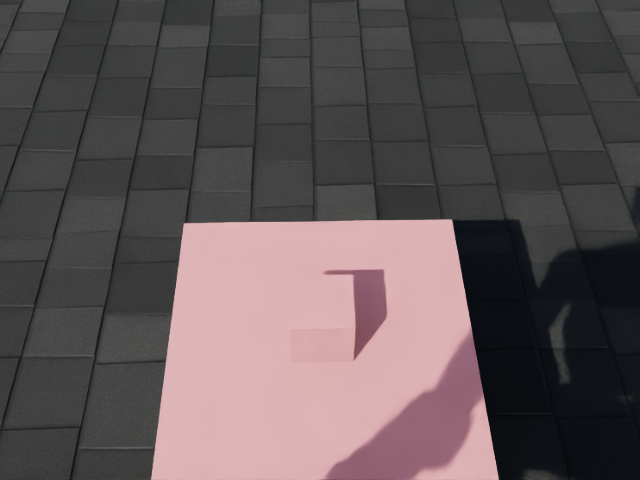
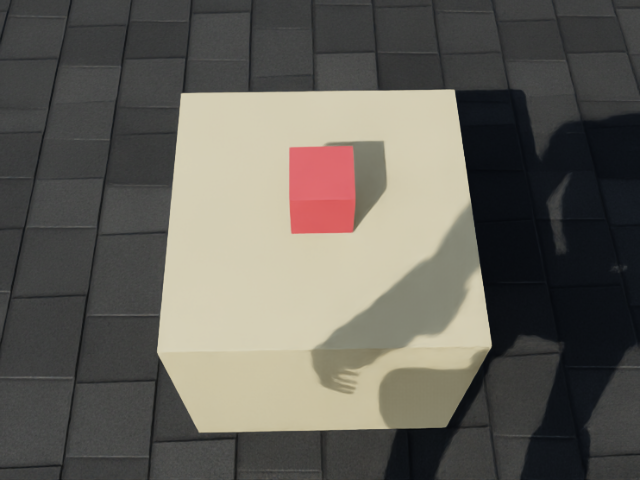
Added ability to specify cube and table color for manip_reach_obj

diff --git a/tasks/manip_reach_obj/create_scene.py b/tasks/manip_reach_obj/create_scene.py
@@ -1,4 +1,4 @@
-"""Create a reach_obj scene with a table and a cube on top.
+"""Create a manip_reach_obj scene: table with a cube on top.
 
 Usage:
     python tasks/manip_reach_obj/create_scene.py \
@@ -7,7 +7,6 @@ Usage:
 """
 
 import argparse
-import torch
 from protomotions.components.scene_lib import (
     BoxSceneObject,
     ObjectOptions,
@@ -21,17 +20,10 @@ def create_reach_scene(
     cube_size: float = 0.08,
     table_width: float = 0.4,
     table_depth: float = 0.4,
+    cube_color: tuple = (0.8, 0.1, 0.1),
+    table_color: tuple = (0.6, 0.5, 0.3),
     output: str = "outputs/manip_reach_obj_scene.pt",
 ) -> None:
-    """
-    Args:
-        cube_pos:    (x, y, z) cube center in world frame. x=forward, y=left, z=up.
-        cube_size:   Cube side length in meters.
-        table_width: Table surface width (X) in meters.
-        table_depth: Table surface depth (Y) in meters.
-        output:      Output .pt path.
-    """
-    # Table height so cube sits on top: table_top = cube_z - cube_size/2
     table_top = cube_pos[2] - cube_size / 2
     table_center_z = table_top / 2
 
@@ -41,7 +33,7 @@ def create_reach_scene(
         height=table_top,
         translation=(cube_pos[0], cube_pos[1], table_center_z),
         rotation=(0.0, 0.0, 0.0, 1.0),
-        options=ObjectOptions(fix_base_link=True),
+        options=ObjectOptions(fix_base_link=True, color=table_color),
     )
 
     cube = BoxSceneObject(
@@ -50,14 +42,19 @@ def create_reach_scene(
         height=cube_size,
         translation=tuple(cube_pos),
         rotation=(0.0, 0.0, 0.0, 1.0),
-        options=ObjectOptions(fix_base_link=True),
+        options=ObjectOptions(fix_base_link=True, color=cube_color),
     )
 
     scene = Scene(objects=[table, cube])
     SceneLib.save_scenes_to_file([scene], output)
     print(f"[create_scene] Saved '{output}'")
-    print(f"  cube: pos={cube_pos}, size={cube_size}m")
-    print(f"  table: {table_width}x{table_depth}m, height={table_top:.3f}m")
+    print(f"  table: {table_width}x{table_depth}m, height={table_top:.3f}m, color={table_color}")
+    print(f"  cube: pos={cube_pos}, size={cube_size}m, color={cube_color}")
+
+
+def parse_color(s: str) -> tuple:
+    """Parse 'r,g,b' string to (float, float, float)."""
+    return tuple(float(x) for x in s.split(","))
 
 
 if __name__ == "__main__":
@@ -67,7 +64,14 @@ if __name__ == "__main__":
     parser.add_argument("--cube-size", type=float, default=0.08)
     parser.add_argument("--table-width", type=float, default=0.4)
     parser.add_argument("--table-depth", type=float, default=0.4)
+    parser.add_argument("--cube-color", type=parse_color, default=(0.8, 0.1, 0.1),
+                        help="RGB floats, e.g. '0.8,0.1,0.1'")
+    parser.add_argument("--table-color", type=parse_color, default=(0.6, 0.5, 0.3),
+                        help="RGB floats, e.g. '0.6,0.5,0.3'")
     parser.add_argument("--output", default="outputs/manip_reach_obj_scene.pt")
     args = parser.parse_args()
-    create_reach_scene(tuple(args.cube_pos), args.cube_size,
-                       args.table_width, args.table_depth, args.output)
+    create_reach_scene(
+        tuple(args.cube_pos), args.cube_size,
+        args.table_width, args.table_depth,
+        args.cube_color, args.table_color, args.output,
+    )
